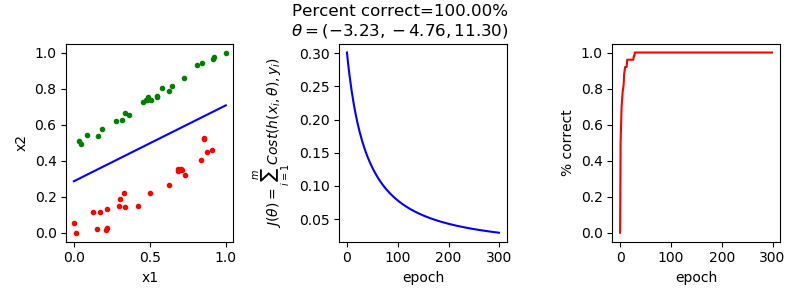
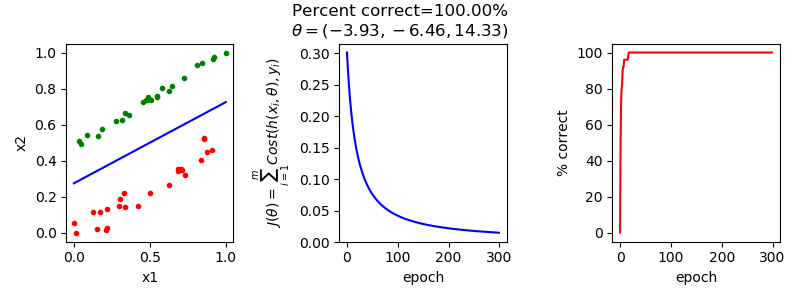
Update files and results.

diff --git a/logregression.py b/logregression.py
@@ -6,10 +6,6 @@ import time
 from data_munging import project_columns, load_csv_to_header_data, fill, load_config, get_header_name_to_idx_maps
 
 
-# http://courses.washington.edu/css490/2012.Winter/lecture_slides/05b_logistic_regression.pdf
-# https://ayearofai.com/rohan-1-when-would-i-even-use-a-quadratic-equation-in-the-real-world-13f379edab3b
-# https://www.kaggle.com/uciml/breast-cancer-wisconsin-data
-
 def logistic(x):
     logit = 1 / (1 + math.exp(-x))
     if 1.0 == logit:
@@ -47,10 +43,10 @@ def percent_correct(x, y, theta):
         if (h_of_x_i < 0.5 and y_i is 0) or (h_of_x_i > 0.5 and y_i is 1):
             correct = correct + 1
     p = correct / n
-    return p
+    return p * 100.0
 
 
-def batch_gradient_descent(x, y, theta, alpha):
+def batch_gradient_descent(x, y, theta, alpha, epochs):
     n = len(theta)
     m = len(x)
 
@@ -60,10 +56,11 @@ def batch_gradient_descent(x, y, theta, alpha):
     sum_logistic_costs.append(logistic_total_cost(x, y, theta))
     thetas.append(list(theta))
 
-    for ixter in range(1, 300):
+    for ixter in range(1, epochs):
+        # convert to list expression
         for j in range(0, n):
-            sum_error = sum((h_of_x(x[i], theta) - y[i]) * x[i][j] for i in range(0, m))
-            theta[j] = theta[j] - alpha * sum_error
+            sum_error_j = sum((h_of_x(x[i], theta) - y[i]) * x[i][j] for i in range(0, m))
+            theta[j] = theta[j] - alpha * sum_error_j
         thetas.append(list(theta))
         sum_logistic_costs.append(logistic_total_cost(x, y, theta))
 
@@ -71,24 +68,22 @@ def batch_gradient_descent(x, y, theta, alpha):
             'logistic_total_cost': sum_logistic_costs}
 
 
-def logistic_regression(data, sample_labels, learning_rate):
+def logistic_regression(data, sample_labels, learning_rate, epochs):
     data_rows = data['rows']
     num_of_features = len(data_rows[0])
-
     add_bias_variable(data)
     theta = fill(0, num_of_features + 1)
-
-    return batch_gradient_descent(data_rows, sample_labels, theta, learning_rate)
+    return batch_gradient_descent(data_rows, sample_labels, theta, learning_rate, epochs)
 
 
 def add_bias_variable(data):
     data_rows = data['rows']
-    # add in dummy variable to the data
+    # add in bias variable to the data
     for sample in data_rows:
         sample.insert(0, 1)
-    headers_w_dummy = list(data['header'])
-    headers_w_dummy.insert(0, 'dummy')
-    idx_to_name, name_to_idx = get_header_name_to_idx_maps(headers_w_dummy)
+    headers_w_bias = list(data['header'])
+    headers_w_bias.insert(0, 'bias')
+    idx_to_name, name_to_idx = get_header_name_to_idx_maps(headers_w_bias)
     data['idx_to_name'] = idx_to_name
     data['name_to_idx'] = name_to_idx
 
@@ -156,7 +151,7 @@ def plot_simple_two_dimensional(log_reg_results, data, class_labels, plot_config
     fig.subplots_adjust(top=0.855)
 
     fig.suptitle('Percent correct='
-                 + '%0.2f' % (percent_corrects[-1:][0] * 100)
+                 + '%0.2f' % (percent_corrects[-1:][0])
                  + '%\n' + '$\\theta=(' + ','.join(['%0.2f' % theta_j for theta_j in final_theta]) + ')$')
 
     fig.savefig(plot_config['output_file_prefix'] + str(int(round(time.time() * 1000))) + ".png")
@@ -187,6 +182,7 @@ def main():
     class_label_col = config['class_label_col']
     class_label_mapping = config['class_label_mapping']
     learning_rate = config['learning_rate']
+    epochs = config['epochs']
 
     class_labels = [class_label_mapping[x[0]] for x in project_columns(all_data, class_label_col)['rows']]
     filtered_data = project_columns(all_data, config['data_project_columns'])
@@ -197,7 +193,7 @@ def main():
 
     del all_data
 
-    log_r = logistic_regression(filtered_data, class_labels, learning_rate)
+    log_r = logistic_regression(filtered_data, class_labels, learning_rate, epochs)
     if 'plot_config' in config:
         plot_config = config['plot_config']
         plot_func_config = config['plot_func']
@@ -205,7 +201,7 @@ def main():
         plot_func(log_r, filtered_data, class_labels, plot_config)
 
     fpc = percent_correct(filtered_data['rows'], class_labels, log_r['final_theta'])
-    pass
+    print("Final theta is {} and final pecrcent correct on training set is: {}".format(log_r['final_theta'], fpc))
 
 
 if __name__ == "__main__": main()

diff --git a/README.md b/README.md
@@ -13,18 +13,23 @@ The hypothesis function ![h](https://latex.codecogs.com/gif.latex?h) is the line
 
 ![\sigma (t) = \frac{1}{1+e^{-t}}](http://latex.codecogs.com/gif.latex?\sigma&space;(t)&space;=&space;\frac{1}{1&plus;e^{-t}})
 
-The sigmoid function has a smooth monotonically increasing value approaching 1 from 0, which makes it suitable for modelling a probability (in this case that the class label is 1, i.e. [P(y=1 \mid x; \theta)](https://latex.codecogs.com/gif.latex?P(y=1&space;\mid&space;x;&space;\theta))).
+The sigmoid function has a smooth monotonically increasing value approaching 1 from 0, which makes it suitable for modelling a probability (in this case that the class label is 1, i.e. ![P(y=1 \mid x; \theta)](https://latex.codecogs.com/gif.latex?P(y=1&space;\mid&space;x;&space;\theta))).
 
 ![sigmoid](https://upload.wikimedia.org/wikipedia/commons/8/88/Logistic-curve.svg)
 
-The goal of logistic regression is to find a theta which linearly separates the examples in the training set with the minimal amount of error. The error is modelled by a "cost" function that represents the difference between the labels from the training data set, and the classification of the training data given [h(x,\theta)](https://latex.codecogs.com/gif.latex?h(x_i,\theta)). Therefore the error function for the training set of m examples is:
+The goal of logistic regression is to find a theta which linearly separates the examples in the training set with the minimal amount of error. The error is modelled by a "cost" function that represents the difference between the labels from the training data set, and the classification of the training data given ![h(x,\theta)](https://latex.codecogs.com/gif.latex?h(x_i,\theta)). Therefore the error function for the training set of m examples is:
 
 ![min_cost_function](http://latex.codecogs.com/gif.latex?J(\theta)&space;=&space;\frac{1}{m}\sum^{m}_{i=1}&space;Cost&space;(h(x_i,&space;\theta),&space;y_i))
 
-One simple cost function is taking the sum of squared difference between y and [h(x_i,\theta)](https://latex.codecogs.com/gif.latex?h(x_i,\theta)) (the function used in least squares regression). It turns out is not that helpful as the the exponential terms in ![h](https://latex.codecogs.com/gif.latex?h) mean that a cost function over theta would be non-convex (have many local minima). If the cost function is convex, it will have only a single minima, therefore it is easier to find the single minimum. The cost function used in logistic regression where h is the sigmoid function, is:
+One simple cost function is taking the sum of squared difference between y and ![h(x_i,\theta)](https://latex.codecogs.com/gif.latex?h(x_i,\theta)) (the function used in least squares regression). It turns out is not that helpful as the the exponential terms in ![h](https://latex.codecogs.com/gif.latex?h) mean that a cost function over theta would be non-convex (have many local minima). If the cost function is convex, it will have only a single minima, therefore it is easier to find the single minimum. The cost function used in logistic regression where h is the sigmoid function, is:
 
 ![cost function](https://latex.codecogs.com/gif.latex?Cost(h_\theta(x),y)&space;=&space;\begin{cases}&space;-log(h_\theta(x))&space;&&space;\text{if&space;}&space;y&space;=&space;1&space;\\\\&space;-log(1-h_\theta(x))&space;&&space;\text{if&space;}&space;y&space;=&space;0&space;\\&space;\end{cases})
 
+When you take the partial derivative of the cost function with respect to  ![\theta](https://latex.codecogs.com/gif.latex?\theta) (a bit beyond my calculus), you get an update function which is amenable to gradient descent i.e. allows you to "walk down" the gradient of the convex cost function to find the minima. For each dimension of the data j:
+
+![grad_descent](https://latex.codecogs.com/gif.latex?\theta_j:=&space;\theta_j&space;-&space;\alpha&space;\sum_{i=1}^{m}&space;(h_\theta(x_i)&space;-&space;y_i)x_i^j)
+
+The ![alpha](https://latex.codecogs.com/gif.latex?\alpha) term is a learning rate and determines the "step-size, i.e. how quickly the algorithm moves down the gradient. In languages that support vectorization all j elements of theta may be updated in a single operation. This gradient descent process is repeated either a fixed number of times, or according to some other termination criteria e.g. accuracy achieved, or limited  improvement in consecutive iterations.
 
 # Resources
 + [Andrew Ng Lectures](https://www.youtube.com/watch?v=-la3q9d7AKQ)
@@ -71,14 +76,17 @@ You have to specify:
  + how to map the class label to a the binary label {0,1};
  + learning rate, the adaptation speed of the batch gradient descent;
  + function that can plot data once logistic regression has been completed;
- + plot config depends on the plot func specified
+ + plot config is passed to the plot func specified.
+ 
+## Notes
++ numeric precision of  
  
 # Results
 ## Basic 2D 1 and Basic 2D 2
 I generated some simple two dimensional data that was linearly seperable (see 2d_1.config and 2d_2.config in the resources directory). The following two plots show:
  + in the left subplot the data where red/green are the data points of the two classes, the blue line is the linear seperation according to theta);
  + in the middle subplot the value of ![jtheta](https://latex.codecogs.com/gif.latex?J(\theta));
- + and in the right subplot the accuracy of [h(x_i,\theta)](https://latex.codecogs.com/gif.latex?h(x_i,\theta)) over the training set.
+ + and in the right subplot the accuracy of ![h(x_i,\theta)](https://latex.codecogs.com/gif.latex?h(x_i,\theta)) over the training set.
 
 ![results](results/2d_1.png "2D Example 1")
 ![results](results/2d_2.png "2D Example 2")
